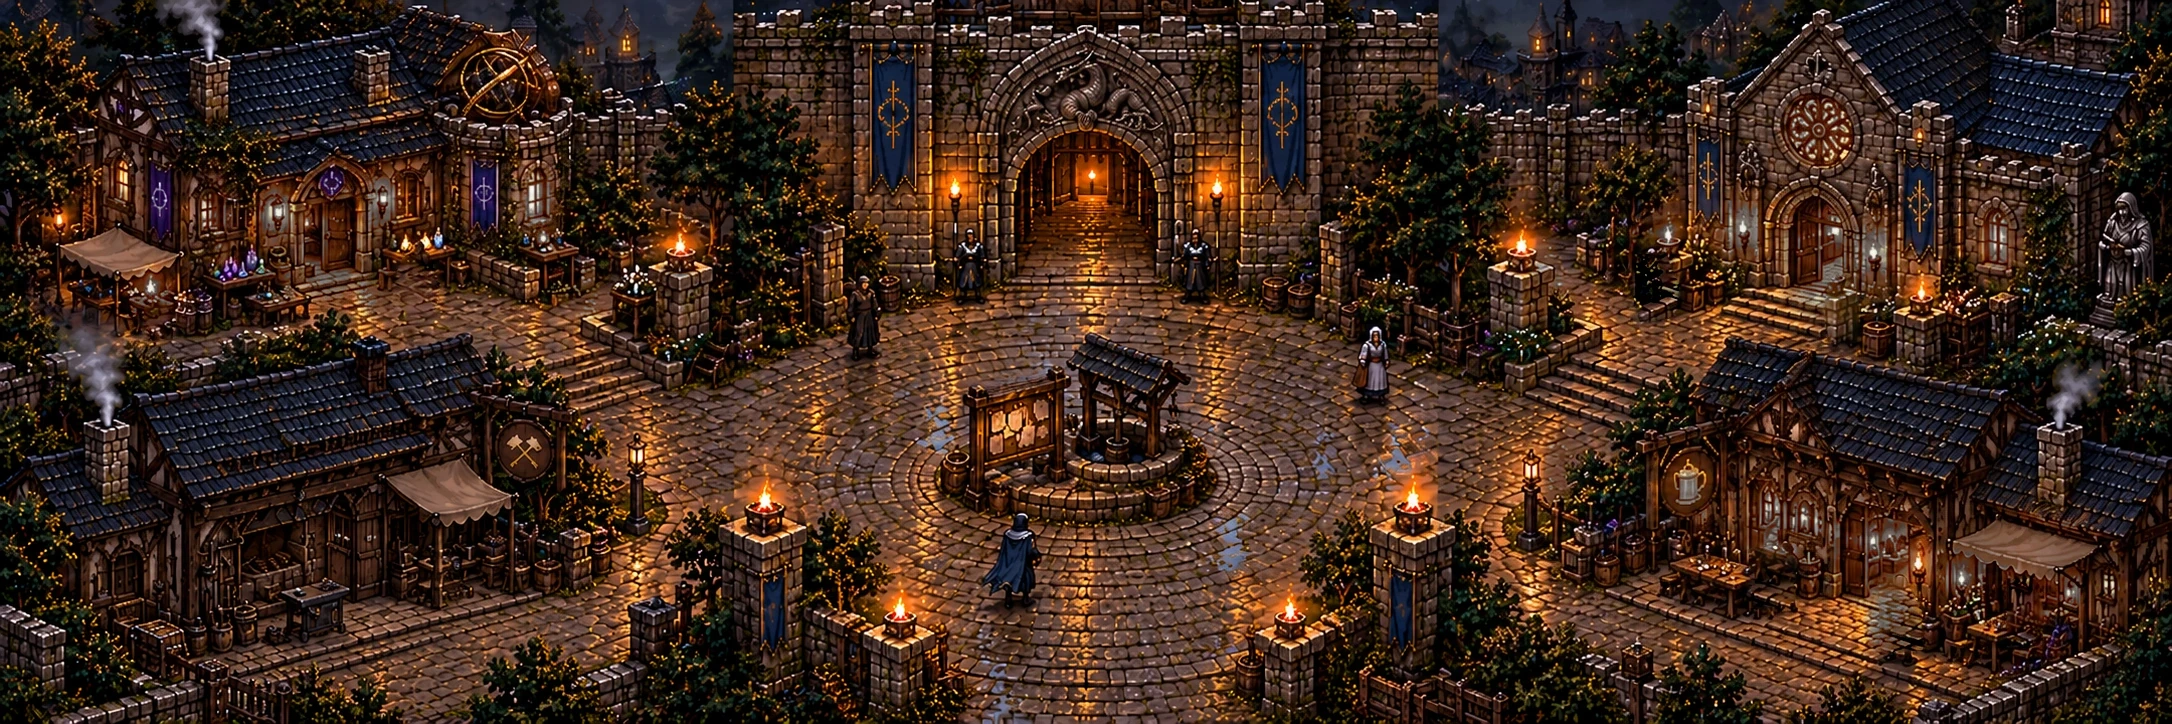
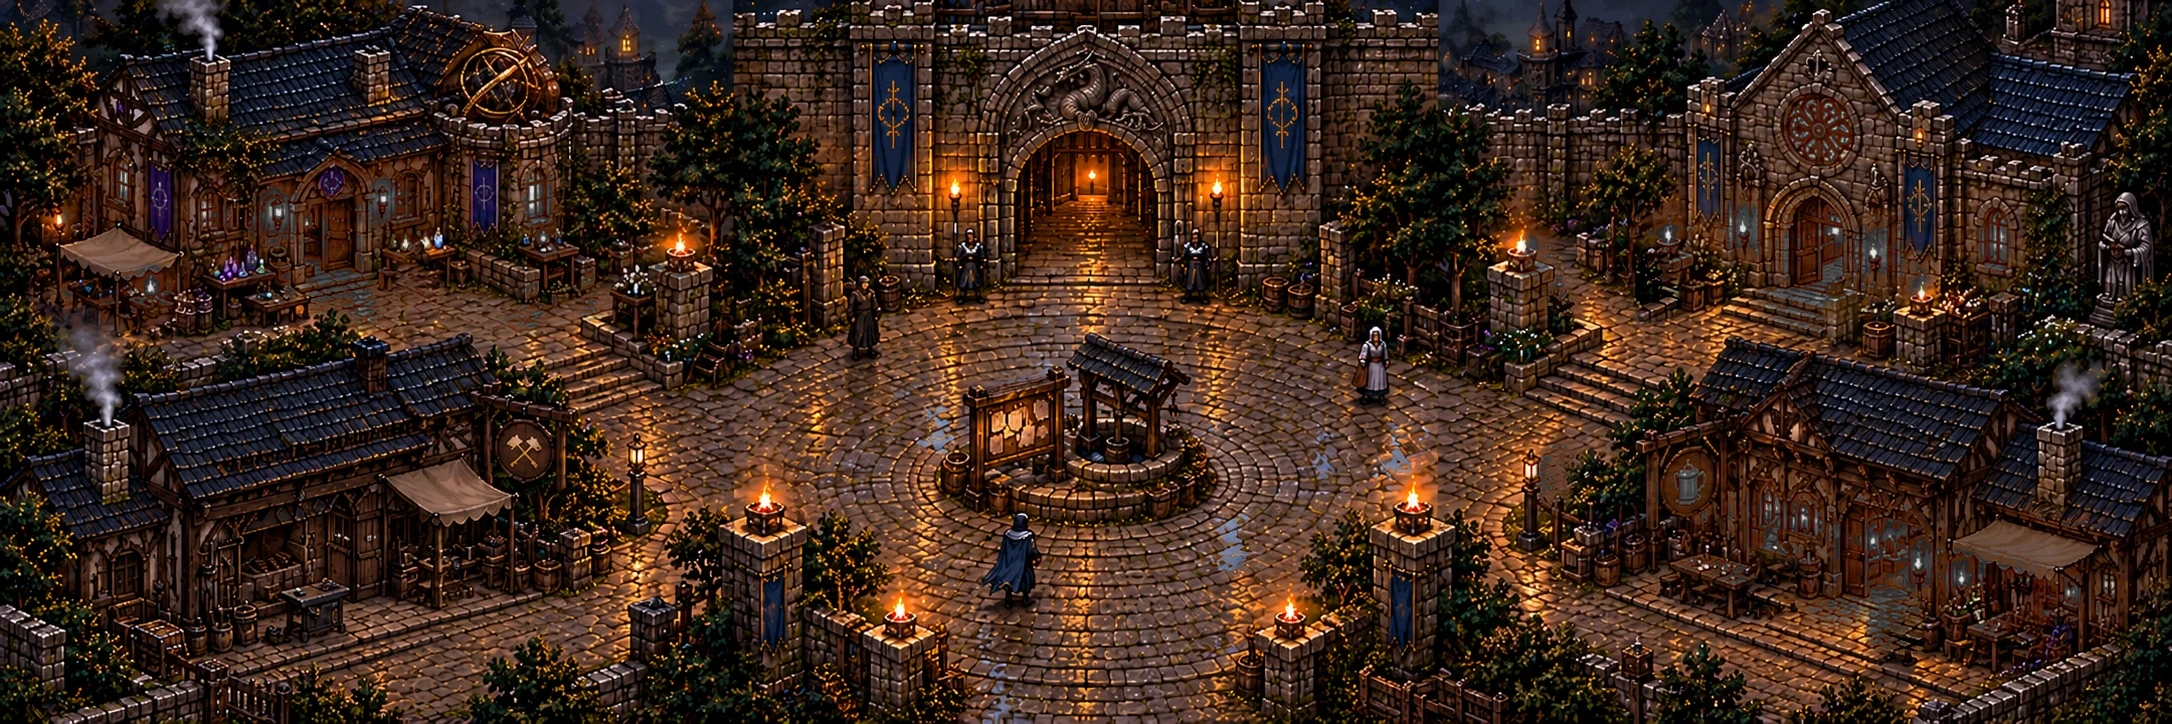
Finish vacant town art with extinguished windows and sealed magic

diff --git a/tools/art/build_town_vacancy.py b/tools/art/build_town_vacancy.py
@@ -25,6 +25,11 @@ SIZE = (2172, 724)
 # cobbled public square or other properties. The edges are art alignment masks.
 PLATES = {
     "nexus": {
+        # Include window panes, purple sigils and the trading stall, not just street lamps.
+        "emission_zones": [(100, 196, 45, 65), (190, 208, 46, 55), (273, 216, 55, 62),
+                           (334, 192, 45, 55), (403, 203, 47, 60), (485, 190, 43, 62),
+                           (542, 216, 55, 73), (122, 289, 80, 45), (363, 286, 72, 47),
+                           (510, 294, 92, 46), (630, 280, 44, 41)],
         "clone_offsets": [(92, 34), (72, 12)],
         "boundary": [(2, 74), (98, 22), (292, 0), (530, 13), (706, 94),
                      (705, 319), (596, 364), (367, 355), (123, 359), (3, 331)],
@@ -43,6 +48,10 @@ PLATES = {
         ],
     },
     "codex": {
+        "emission_zones": [(1551, 275, 35, 70), (1653, 258, 65, 62),
+                           (1729, 191, 35, 56), (1816, 118, 71, 67),
+                           (1820, 278, 77, 70), (1900, 240, 50, 65),
+                           (2003, 247, 55, 75), (2105, 261, 45, 71)],
         "clone_offsets": [(-88, 32), (88, 20)],
         "boundary": [(1475, 97), (1575, 46), (1700, 9), (1793, 0), (1938, 0),
                      (2111, 8), (2171, 63), (2171, 346), (2075, 369),
@@ -60,6 +69,10 @@ PLATES = {
         ],
     },
     "legends": {
+        "emission_zones": [(1557, 482, 25, 44), (1665, 520, 80, 80),
+                           (1748, 537, 64, 74), (1834, 540, 68, 95),
+                           (1920, 555, 77, 104), (2020, 569, 83, 102),
+                           (2115, 580, 81, 98)],
         "clone_offsets": [(-75, 21), (-70, 10), (85, 12)],
         "boundary": [(1481, 479), (1565, 413), (1746, 353), (1924, 356),
                      (2083, 390), (2171, 463), (2171, 715), (2052, 722),
@@ -113,13 +126,15 @@ def dormant_plate(original: np.ndarray, plan: dict) -> Image.Image:
     violet = np.clip((red + blue - green * 2) / 130, 0, 1)
     luminous = np.clip((np.max(source_rgb, axis=2) - 60) / 135, 0, 1)
     light_mask = np.zeros((h, w), dtype=np.float32)
-    for x, y, rx, ry in plan["lamps"]:
+    for x, y, rx, ry in plan["lamps"] + plan["emission_zones"]:
         r2 = ((xx - x) / rx) ** 2 + ((yy - y) / ry) ** 2
         light_mask = np.maximum(light_mask, np.clip(1.0 - r2, 0, 1) ** 0.7)
-    suppression = np.clip(light_mask * luminous * np.maximum(warm, violet * .85) * 1.25, 0, .87)
+    # A sleeping building may retain readable masonry, never emitting bright
+    # orange windows, magical purple runes or lit trading stalls.
+    suppression = np.clip(light_mask * luminous * np.maximum(warm, violet * .85) * 1.75, 0, .96)
     # Preserve the painting's texture; only the emissive chroma and intensity go.
     gray = (source_rgb[:, :, 0] * .24 + source_rgb[:, :, 1] * .58 + source_rgb[:, :, 2] * .18)
-    neutral = np.stack((gray * .69, gray * .72, gray * .78), axis=-1)
+    neutral = np.stack((gray * .43, gray * .46, gray * .51), axis=-1)
     painted = np.clip(painted * (1 - suppression[:, :, None]) + neutral * suppression[:, :, None], 0, 255)
     cutout = Image.new("L", SIZE, 0)
     drawer = ImageDraw.Draw(cutout)
